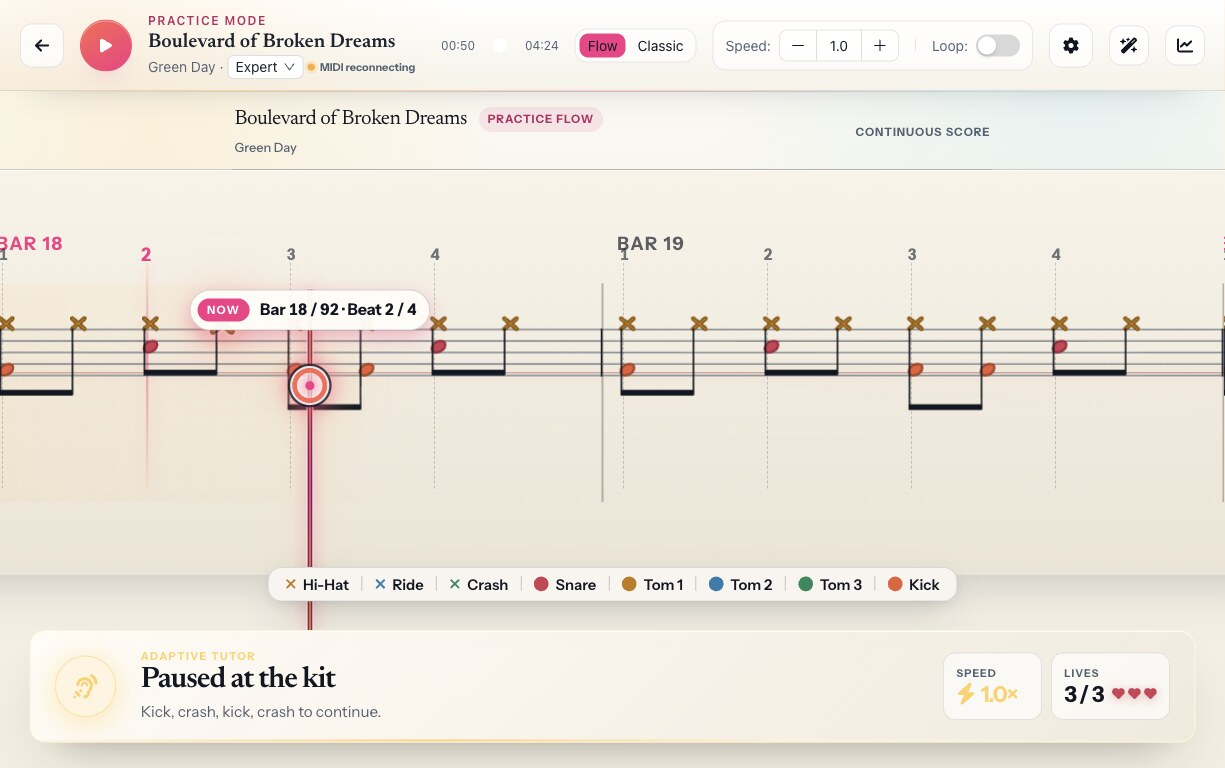
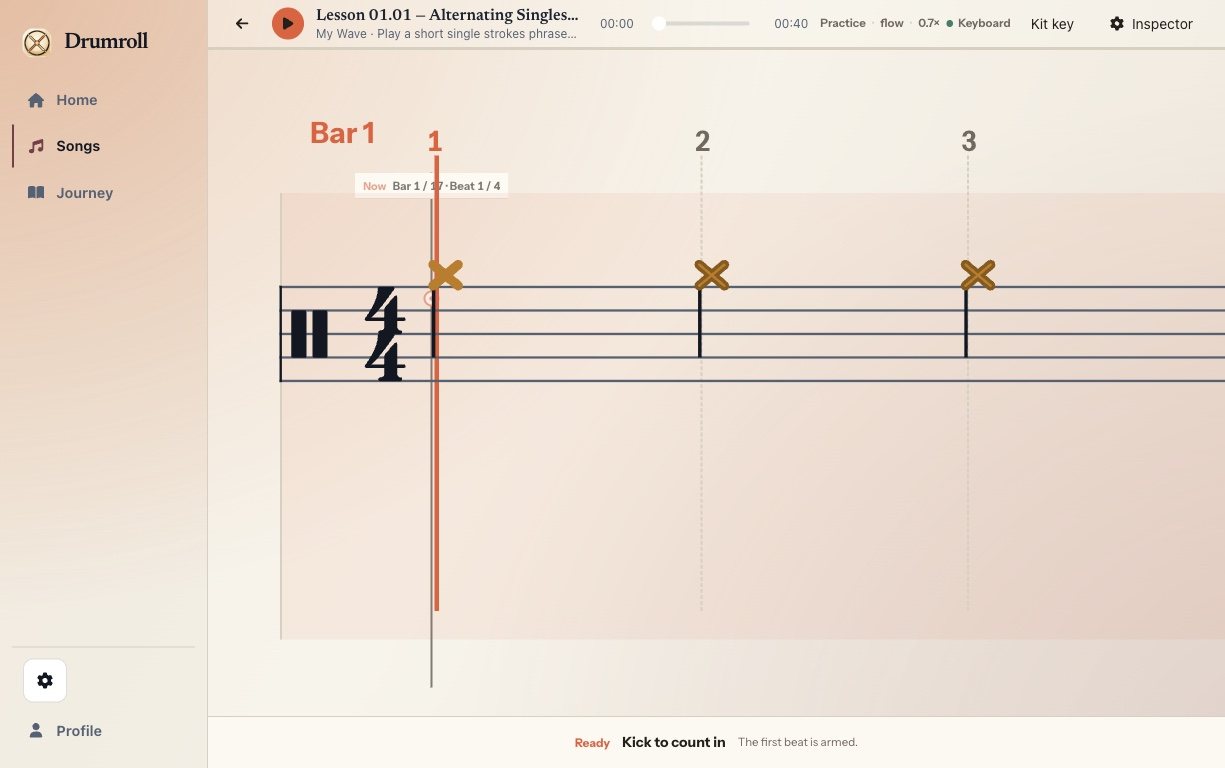
feat: the site shows the shipped design, and kb.16 has installed proof
The four site captures were still the rejected era — the XP-chip
dashboard home, a LOCKED journey with dark plaques, practice with
lives and a permanent legend, Coach over a dark score. All four are
replaced with captures of the installed kb.16 taken today: the
labelled-door kit home, the open bright journey, practice on the warm
field with the count-in armed, and Insights with honest unmeasured
skills. Captions updated to say what is true now. The kb.16 installed
capture set and its harness land in docs/design-qa/2026-08-14-kb16-final.

User-Request: terminal state: Spotify for drums | claude-code:22d04295-77e6-49fe-b3f0-1afb54e6ab2e

diff --git a/web/src/index.ts b/web/src/index.ts
@@ -1,6 +1,6 @@
 import '@fontsource-variable/instrument-sans';
 import { installWebPlatform } from '../../src/platform/web';
-import coachPanel from '../../docs/design-qa/daybreak-arena/implementation-coach.png';
+import insightsEvidence from './assets/insights-evidence.jpg';
 import flowPractice from './assets/flow-practice.jpg';
 import homeCockpit from './assets/home-cockpit.jpg';
 import journeyMap from './assets/journey-map.jpg';
@@ -55,8 +55,8 @@ function showLanding(): void {
           <p class="web-fineprint">The browser app keeps lesson progress locally and supports Web MIDI. Local audio and chart creation remain in the signed desktop app.</p>
         </div>
         <figure class="web-media-frame web-hero-capture">
-          <img src="${homeCockpit}" alt="The current Drumroll home cockpit with a drum kit, song context, kit-lane accuracy, and a play action." />
-          <figcaption>Current desktop cockpit. The kit is the controller.</figcaption>
+          <img src="${homeCockpit}" alt="The Drumroll home: the kit photograph is the whole screen and every drum is a labelled coloured door — kick continues, snare starts My Wave, hi-hat opens the next lesson." />
+          <figcaption>Home is a kit, not a dashboard. Every drum is a door.</figcaption>
         </figure>
       </section>
 
@@ -75,8 +75,8 @@ function showLanding(): void {
           <p>Flow keeps the playhead fixed while the chart moves. Practice controls let you choose speed, notation, loops, checkpoint recovery, and lives without losing the musical thread.</p>
         </div>
         <figure class="web-media-frame web-practice-capture">
-          <img src="${flowPractice}" alt="Drumroll Flow notation in a live Practice session with colored drum notes and a fixed playhead." />
-          <figcaption>Current Flow notation in a Drumroll Practice session.</figcaption>
+          <img src="${flowPractice}" alt="Drumroll practice on the warm paper field: Flow notation, a fixed playhead, and a count-in armed for a kick strike." />
+          <figcaption>Flow notation on the warm field. Kick to count in; no lives, no clutter.</figcaption>
         </figure>
         <div class="web-sequence" aria-label="Drumroll practice sequence">
           <article><span>01</span><h3>Choose a reachable challenge.</h3><p>The next-practice selector balances prerequisites, recent mastery, kit-lane weakness, speed, spacing, and variety.</p></article>
@@ -93,15 +93,15 @@ function showLanding(): void {
           <button type="button" class="web-inline-action" data-testid="start-drumroll-journey">Take the next lesson in browser</button>
         </div>
         <figure class="web-media-frame web-journey-capture">
-          <img src="${journeyMap}" alt="The current Drumroll Journey showing the Foundations season and Lesson 01.01 as the next exercise." />
-          <figcaption>Current Journey view with the Foundations season.</figcaption>
+          <img src="${journeyMap}" alt="The Drumroll Journey: every lesson open in a bright studio, with the next lesson invited by name and the skill it builds." />
+          <figcaption>All 170 lessons open. The next one is an invitation, not a lock.</figcaption>
         </figure>
       </section>
 
       <section class="web-coach-section" id="coach" aria-labelledby="web-coach-title">
         <figure class="web-media-frame web-coach-capture">
-          <img src="${coachPanel}" alt="Drumroll's practice coach explaining a saved run and the evidence it has available." />
-          <figcaption>Coach reports what a saved run actually contains.</figcaption>
+          <img src="${insightsEvidence}" alt="Drumroll's Insights screen: one skill to build next, honest zero counters, and per-skill measurement that admits what is not yet measured." />
+          <figcaption>Insights names the next useful skill and admits what is unmeasured.</figcaption>
         </figure>
         <div class="web-coach-copy">
           <p class="web-section-index">The evidence</p>
